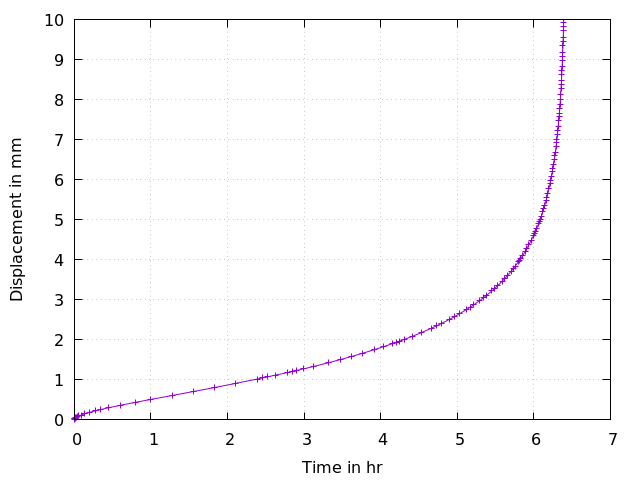
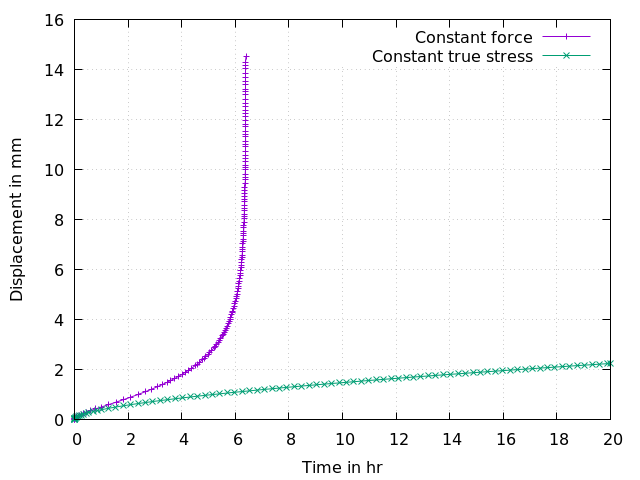
Add constant stress version

diff --git a/NonLinear/Creep/README.md b/NonLinear/Creep/README.md
@@ -9,8 +9,11 @@ Model based on the official ccx example `beamcr.inp` but with modified material 
 
 File                       | Contents    
 :-------------             | :-------------
-[solve.inp](solve.inp)     | CCX input
-[disp.plt](disp.plt)       | Gnuplot script for the creep curve
+[pre.fbd](pre.fbd)         | CGX input for preprocessing
+[solve.inp](solve.inp)     | CCX input (constant force)
+[solve2.inp](solve2.inp)   | CCX input (constant true stress)
+[peeq.plt](peeq.plt)       | Gnuplot script for the creep curve (strain)
+[disp.plt](disp.plt)       | Gnuplot script for the creep curve (displacement)
 
 ## Setup
 
@@ -20,40 +23,62 @@ File                       | Contents
 | `length`  | 8       | length in mm|
 | `le`      | 1       | node distance
 
-The parameters are defined in `pre.fbd`.The mesh and the sets are generated using
+The parameters are defined in `pre.fbd`. The mesh and the sets are generated using
     
     > cgx -b pre.fbd
 
-The model consists of a bar of cross section 1 x 1 mm and 8 mm length (longitudinal direction Z). It is fixed at z = 0 in z-direction while allowing for deformation in x and y directions. The load is applied via surface `Szl` coupled to reference node 1. 
+The model consists of a bar of cross section 1 x 1 mm and 8 mm length (longitudinal direction Z). It is fixed at z = 0 in z-direction while allowing for deformation in x and y directions. 
+
+There are two versions of load application:
+
+1. [solve.inp](solve.inp) as a constant concentrated force to the control node of surface `Szl` (creating constant total force)
+2. [solve2.inp](solve2.inp) as a constant negative pressure to surface `Szl` (creating constant true stress)
+
+Fully integrated 20-node elements are used, because reduced integration would lead to hourglassing with just a single element over the cross section.
 
 The material parameters are taken from literature and represent magnesium alloy AZ91 at 200°C.
 
-The simulation consists of a `*visco` step of 20 hr duration, yet stops after approximately 23000 seconds due to excessive strain rate.
+The simulation consists of a `*visco` step of 6.7 hr (constant total force) or 20  hr (constant true stress) duration.
 
 <img src="sets.png" width="400" title="Mesh and sets">
 
 ## Solving
 
+### Constant total force
+
 ```
 > ccx solve
 ```
-The solver history can be documented with
+The simulation doesn't reach the designated total time because of excessive creep rate when the cross section becomes too small.
 ```
 > monitor.py solve
 ```
 
-<img src="solve.png" title="Convergence history">
+<img src="solve.png" title="Convergence history, constant force">
+
+### Constant true stress
+
+```
+> ccx solve2
+```
+The solver history can be documented with
+```
+> monitor.py solve2
+```
+
+<img src="solve2.png" title="Convergence history, constant stress">
 
 ## Postprocessing
 
-The displacement of a monitor node at the load application surface is written to the .dat file. 
+The equivalent creep strain is written to the .dat file. 
 
 This is converted to a tabular text file suitable for gnuplot.
 
 ```
-> dat2txt.py 
-> gnuplot disp.plt
+> dat2txt.py solve
+> dat2txt.py solve2
+> gnuplot peeq.plt
 ```
 Equivalent plastic strain and deformed shape of the profile:
 
-<img src="disp.png" title="Displacement over time (creep curve)">
+<img src="peeq.png" title="Creep strain over time">

diff --git a/README.md b/README.md
@@ -264,7 +264,7 @@ In the [Release Manager](https://github.com/mkraska/CalculiX-Examples/releases) 
   title="Plane stress model for parameter optimization">
 ](CAD/Opt)
 [<img
-  src="NonLinear/Creep/disp.png"
+  src="NonLinear/Creep/peeq.png"
   width="200"
-  title="Creep curve (constant tensile load)">
+  title="Creep curves">
 ](NonLinear/Creep)
